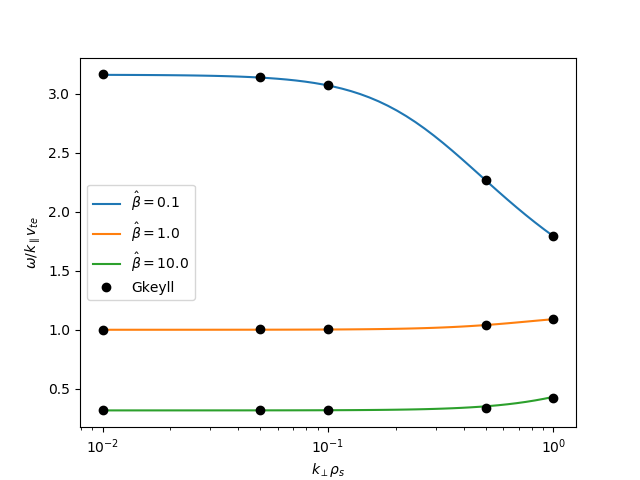
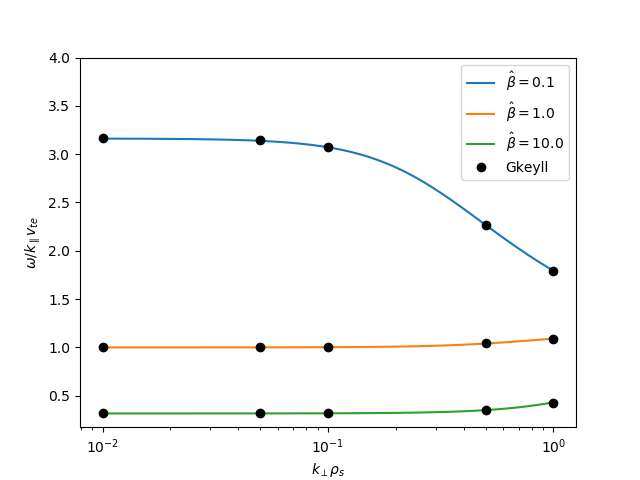
minor change

diff --git a/noah/alfven_p1_kperp_scans/plot.py b/noah/alfven_p1_kperp_scans/plot.py
@@ -61,7 +61,8 @@ for beta in [0.1, 1.0, 10.0]:
         plt.plot(kperps, freqs, "ok")
 
 plt.xscale("log")
-plt.legend()
+plt.ylim(top=4)
+plt.legend(loc="upper right")
 plt.xlabel(r"$k_\perp \rho_s$")
 plt.ylabel(r"$\omega/k_\parallel v_{te}$")
 
